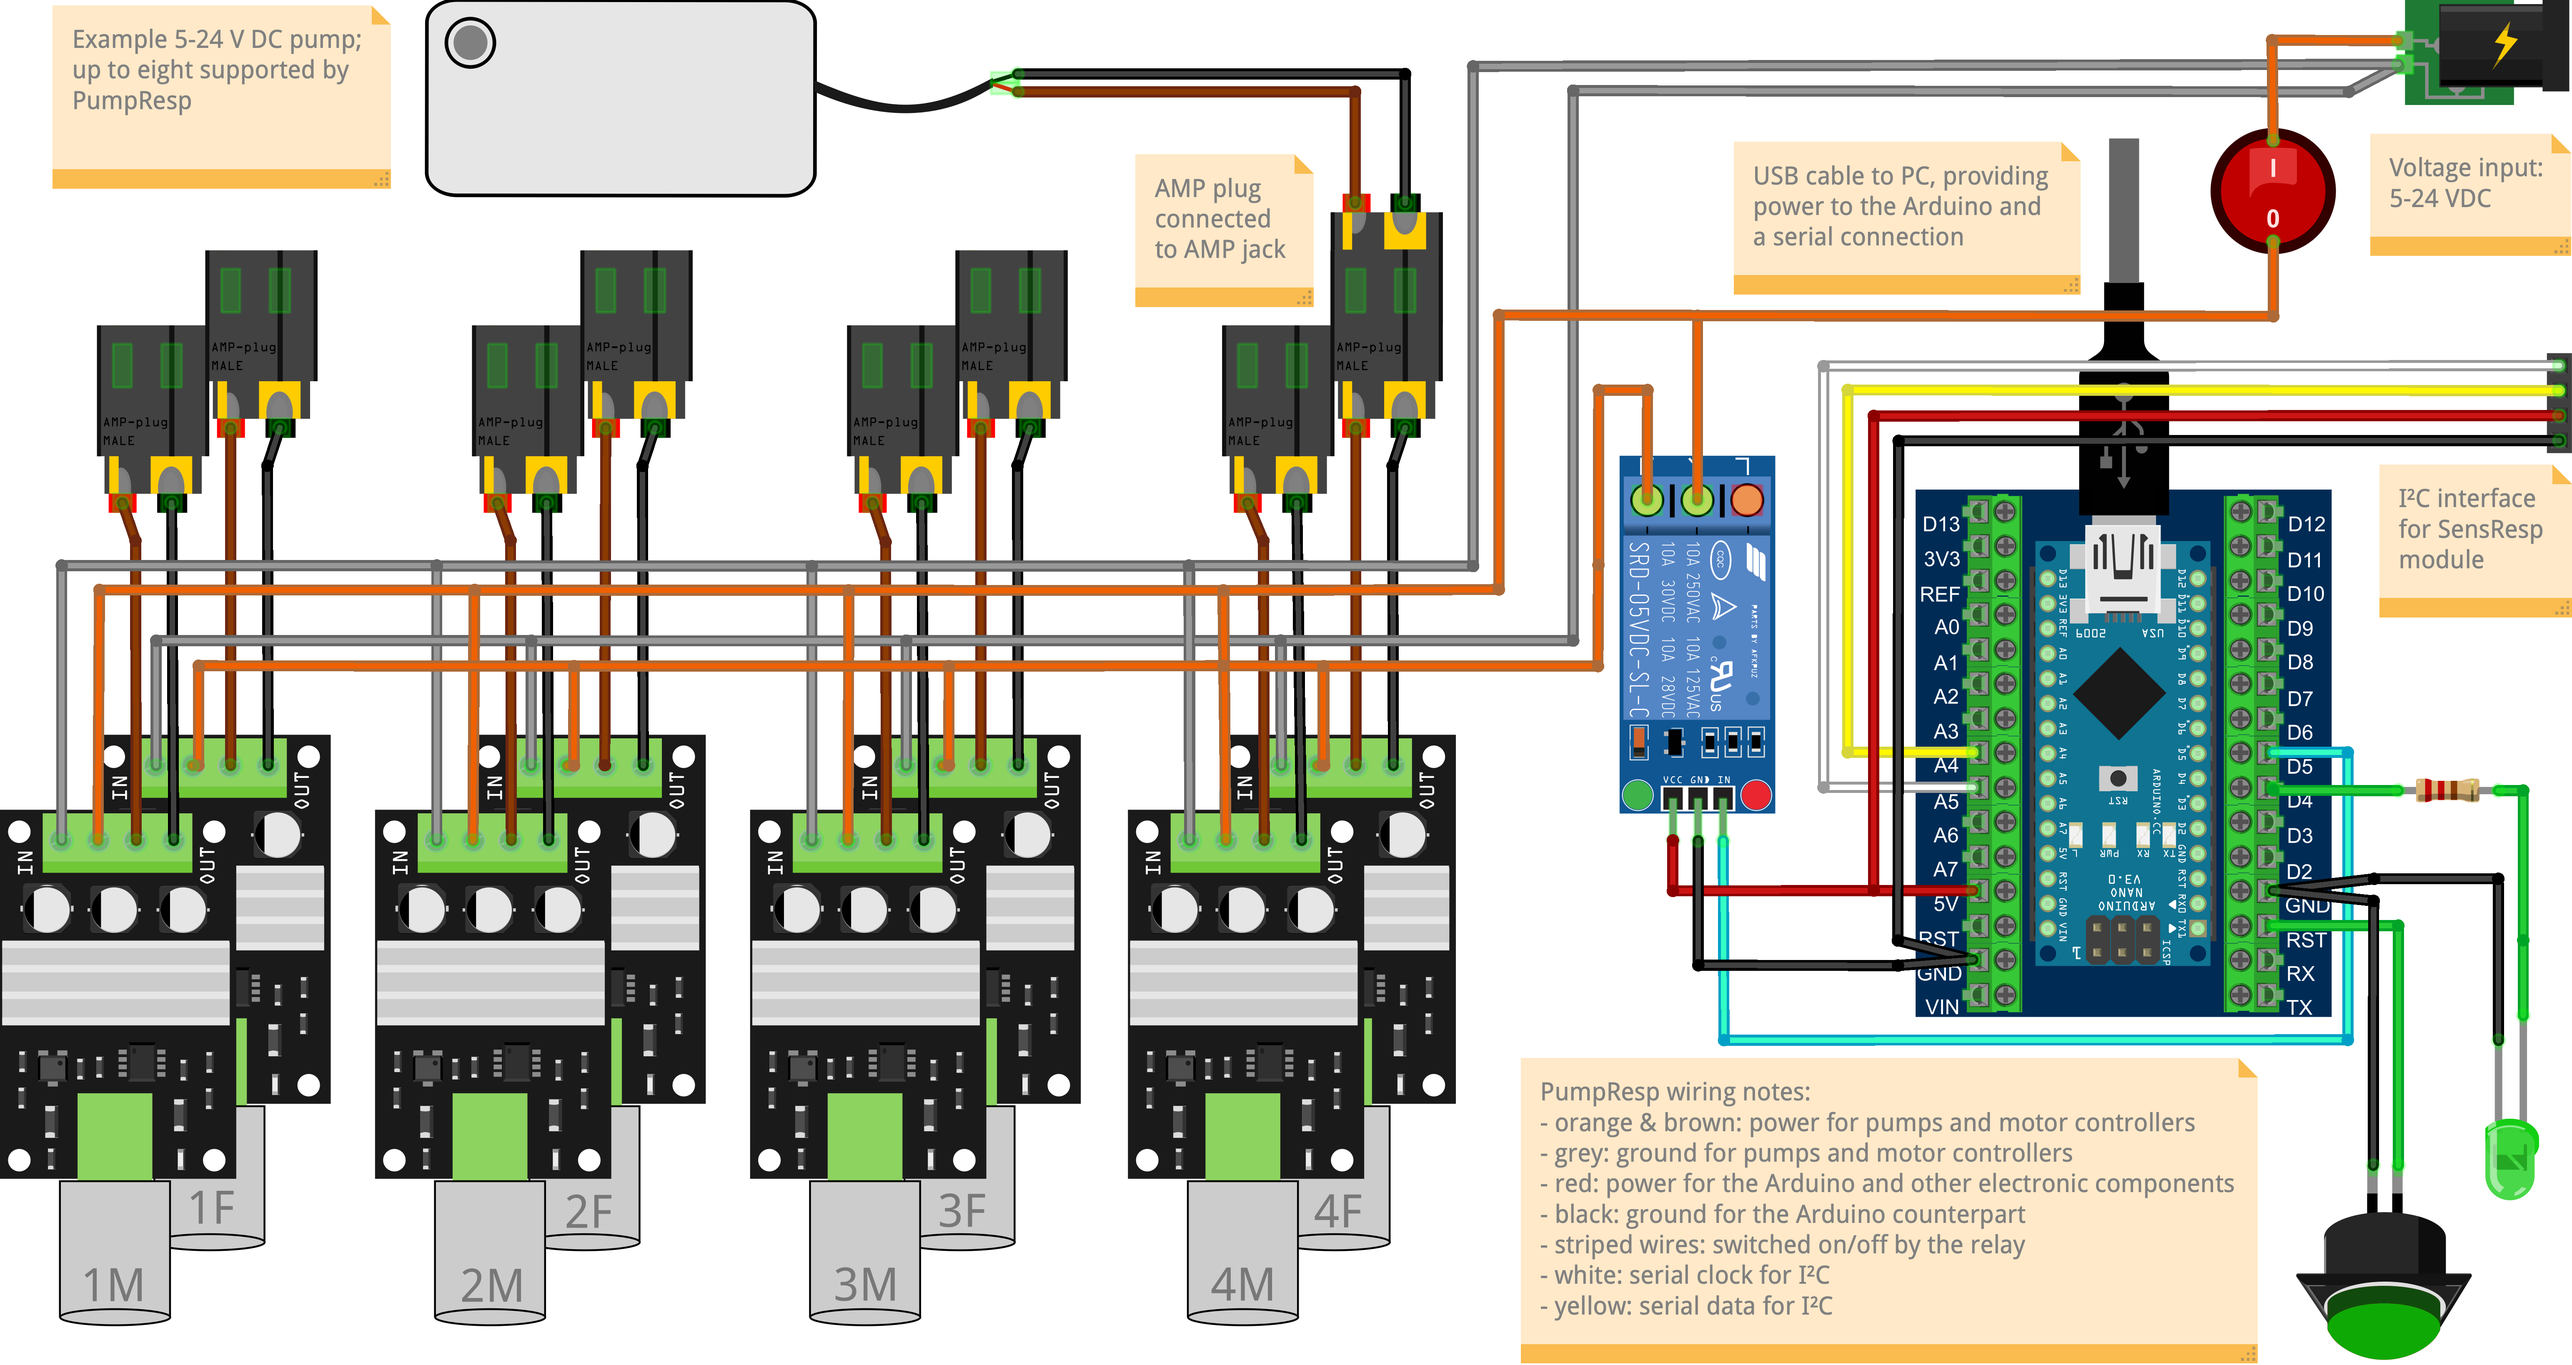
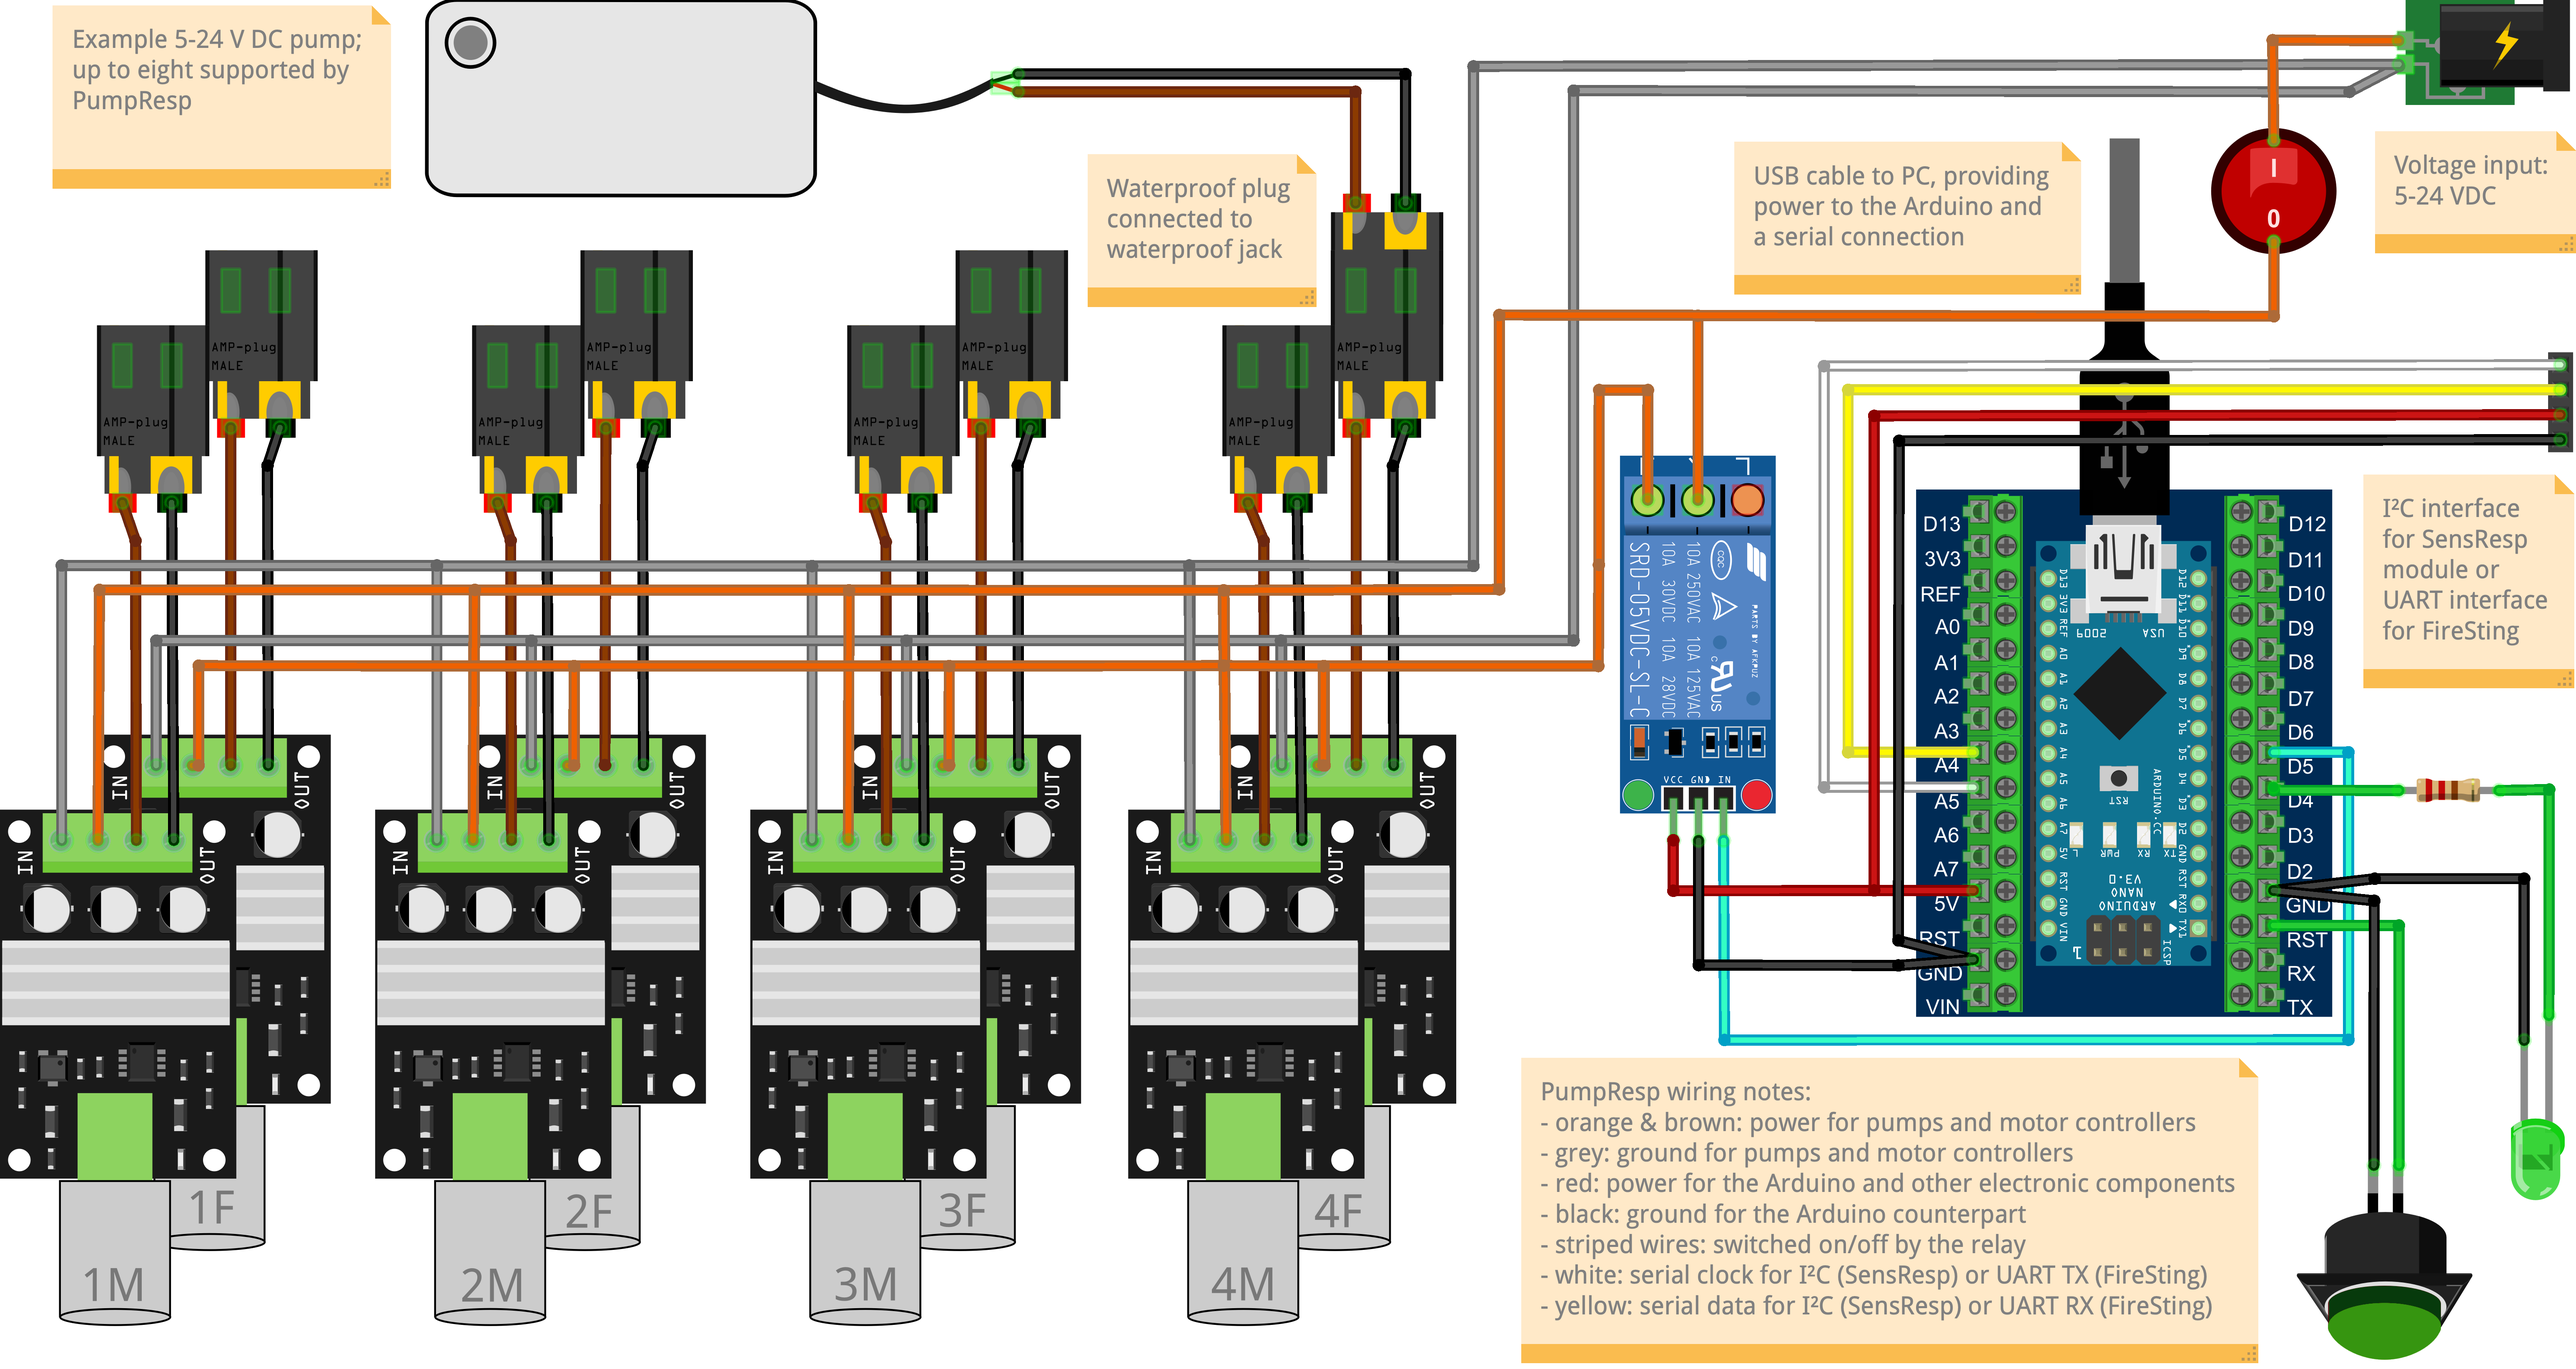
Move notes about 3.3 V logic notes into a separate file

diff --git a/docs/PumpResp_Build_Guide.md b/docs/PumpResp_Build_Guide.md
@@ -102,7 +102,7 @@ Prices listed in this BOM exclude VAT, customs duties, and delivery costs.
 | Red and black wires, 20 AWG | Generic | 3 m each | 7 | 7 | Use 16 AWG for high‑current pumps |
 | Round rocker switch, mounting hole diameter 15 mm, 2-pin | Generic | 1 pc | 6 | 6 | Bulk pack (3–5 pcs) |
 | DC power jack, steel, 5.5×2.1 mm | Generic | 1 pc | 7 | 7 | Bulk pack (3–5 pcs) |
-| 1-channel relay, 5 V logic, 30 V, 10 A | Generic | 1 pc | 10 | 10 | Bulk pack (5–10 pcs). It can be replaced by 3.3 V logic relay if 3.3 V-logic Nano board is used³ |
+| 1-channel relay, 5 V logic, 30 V, 10 A | Generic | 1 pc | 10 | 10 | Bulk pack (5–10 pcs). |
 | Arduino Nano–compatible board (ATmega328P) with Mini-B USB cable and screw‑terminal adapter | Generic | 1 kit | 9 | 9 | The board can be replaced by the Arduino Nano rev.3 or 3.3 V-board from Nano family³ |
 | M3 machine screw, 6 mm | Generic | 1 pc | 5 | 5 | Bulk pack (60–300 pcs) |
 | Push button, mounting hole diameter 16 mm, 2-pin | Generic | 1 pc | 10 | 10 | Bulk pack (10 pcs) |
@@ -116,7 +116,7 @@ Prices listed in this BOM exclude VAT, customs duties, and delivery costs.
 
 *² This BOM does not include pumps or their cables.*
 
-*³ The design is compatible with 3.3 V‑logic Arduino Nano–family boards (e.g., Nano Every, Nano 33 IoT, Nano 33 BLE) provided that the 5 V relay module is replaced with a 3 V/3.3 V logic‑compatible relay module powered from 3–3.3 V. All other digital I/O (status LED, push button, PWM control signals) operate correctly at 3.3 V logic levels.*
+*³ This guide does not cover 3.3 V‑logic operation; refer to ‘PumpResp_logic_notes_3v3.md’ for the necessary compatibility adjustments.*
 
 # 4. Tools and Consumables
 These items are not included in the BOM because they are general workshop supplies rather than project‑specific components, but they are still required for assembly. Most of the tools and consumables can be found in FabLabs, electronic/robotics clubs and Universities of Applied Sciences around the world.
@@ -185,7 +185,7 @@ Figure 1. Blueprint of the PumpResp enclosure
 Figure 2. Wiring scheme of the PumpResp
 ![Wiring scheme of the PumpResp](images/PumpResp_wiring_diagram.png)
 
-**Step 11.** Assemble the two red and two black multi‑wire junctions by soldering the wire bundles as shown in Figure 3. Insulate all exposed solder joints with electrical tape to ensure no bare wires remain.
+**Step 11.** Assemble the two red and two black multi‑wire junctions by soldering the wire bundles as shown in Figure 3. Insulate all exposed solder joints with electrical tape, then secure the tape with a small drop of superglue to ensure no bare wires remain.
 
 Figure 3. Assembly wires and multi‑wire junctions: 
 
@@ -212,7 +212,7 @@ Figure 3. Assembly wires and multi‑wire junctions:
 **Step 21.** Connect the jumper wires to the relay board and secure the free wire ends in the screw‑terminal adapter as shown in Figure 2. For a cleaner layout and easier access to the Arduino and relay, route the red and black wires behind the terminal adapter as shown in Figure 4.
 
 ## 5.4 Adding the user interface components
-**Step 22.** Solder the LED together with the 220 Ω resistor and the wires as shown in Figure 3.
+**Step 22.** Solder the LED together with the 220 Ω resistor and the wires as shown in Figure 3. Ensure correct LED polarity (long leg is typically +).
 
 **Step 23.** Mount the LED to the corresponding hole on the front panel of the enclosure using a hot-glue gun.
 

diff --git a/docs/PumpResp_3v3_logic_notes.md b/docs/PumpResp_3v3_logic_notes.md
@@ -1,0 +1,12 @@
+# PumpResp 3.3 V‑logic notes  
+The PumpResp design can operate with 3.3 V‑logic Nano‑family boards (Nano 33 BLE, Nano 33 IoT, RP2040, Nano ESP32), which may provide additional functionality.
+
+This topic is outside the scope of the main build guide. Several design and assembly adjustments are required, and the list below reflects unverified considerations only—not tested, not validated, and not intended as full instructions.
+
+1. Replace the 5 V relay module with a relay module that is both 3.3 V‑logic compatible and powered from a 3–3.3 V supply.
+
+2. If any connected device communicates over 5 V I²C, use a bidirectional logic‑level converter. This protects the 3.3 V Arduino pins and ensures reliable two‑way I²C communication.
+
+3. All remaining PumpResp components (status LED, push button, PWM control signals) operate correctly at 3.3 V logic levels.
+
+4. If PumpResp is connected over UART to the PyroScience FireSting logger, 3.3 V logic is actually preferable and aligns with the logger’s voltage levels.
